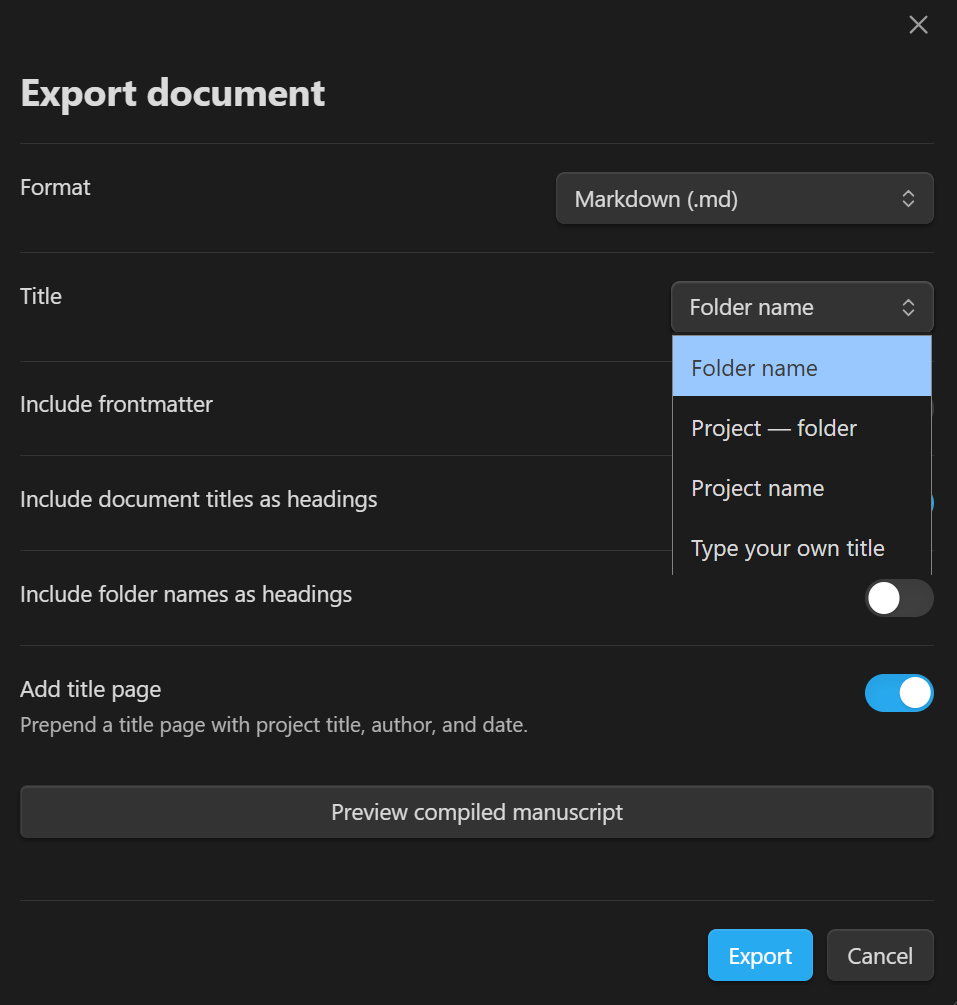
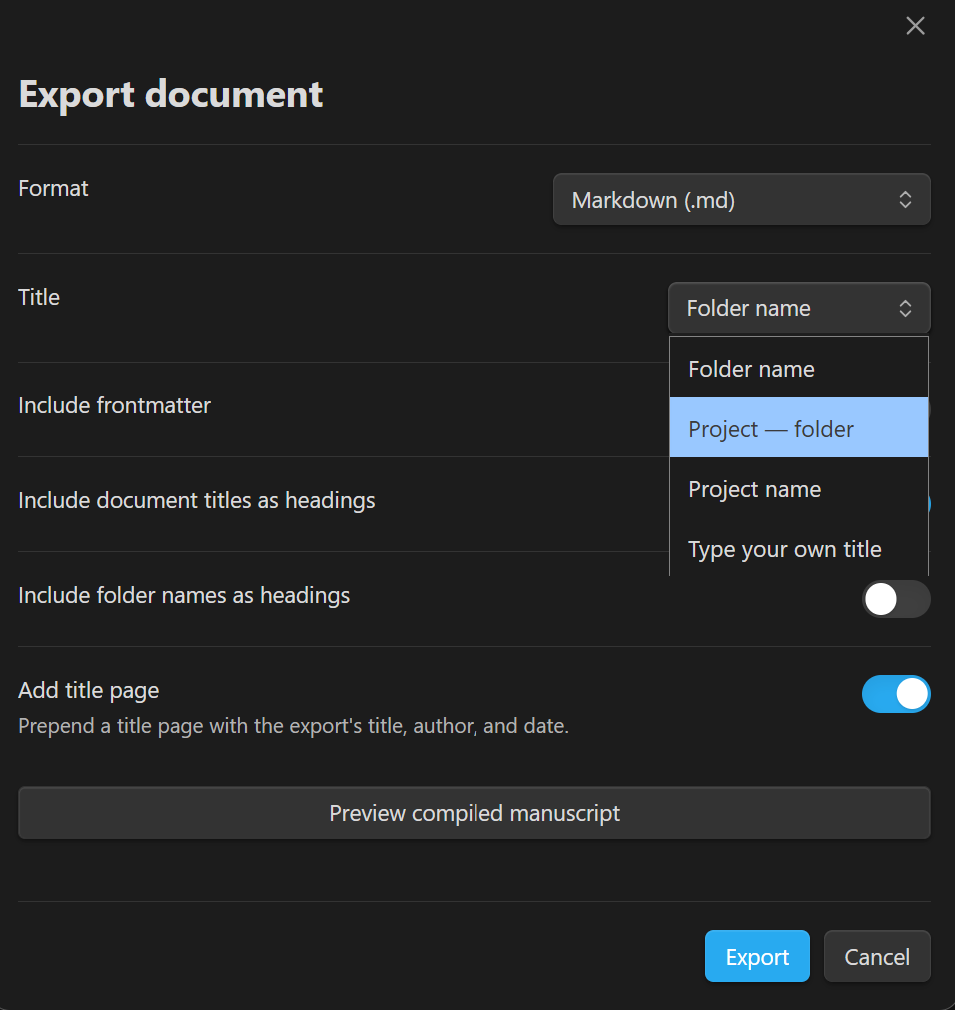
docs: export title shot retake + stale "+ New" reference (#233 audit)
export-modal-title.png retaken against the dialog text corrected in
#279 (same frame as #278, description now names the export''s title).
README line 211 (Cowork): the launcher''s create control is a boxed "+"
icon beside the project dropdown since the project-row parity pass, not
a "+ New" label — instruction updated to name the control on both
surfaces. main.js rebuilt for the bundled help.

diff --git a/README.md b/README.md
@@ -208,7 +208,7 @@ The word count updates asynchronously from Obsidian's file cache and appears wit
 
 Projects group a set of documents (binder items) and act as the scope for export, statistics, and the word count goal banner.
 
-**To create a project:** Use the command **Create new writing project** from the command palette, or click **+ New** in the Launcher panel.
+**To create a project:** Use the command **Create new writing project** from the command palette, or click the **+** button next to the project dropdown in the Launcher or Binder panel.
 
 **To switch projects:** Use the Launcher panel or the project selector at the top of the Binder panel.
 